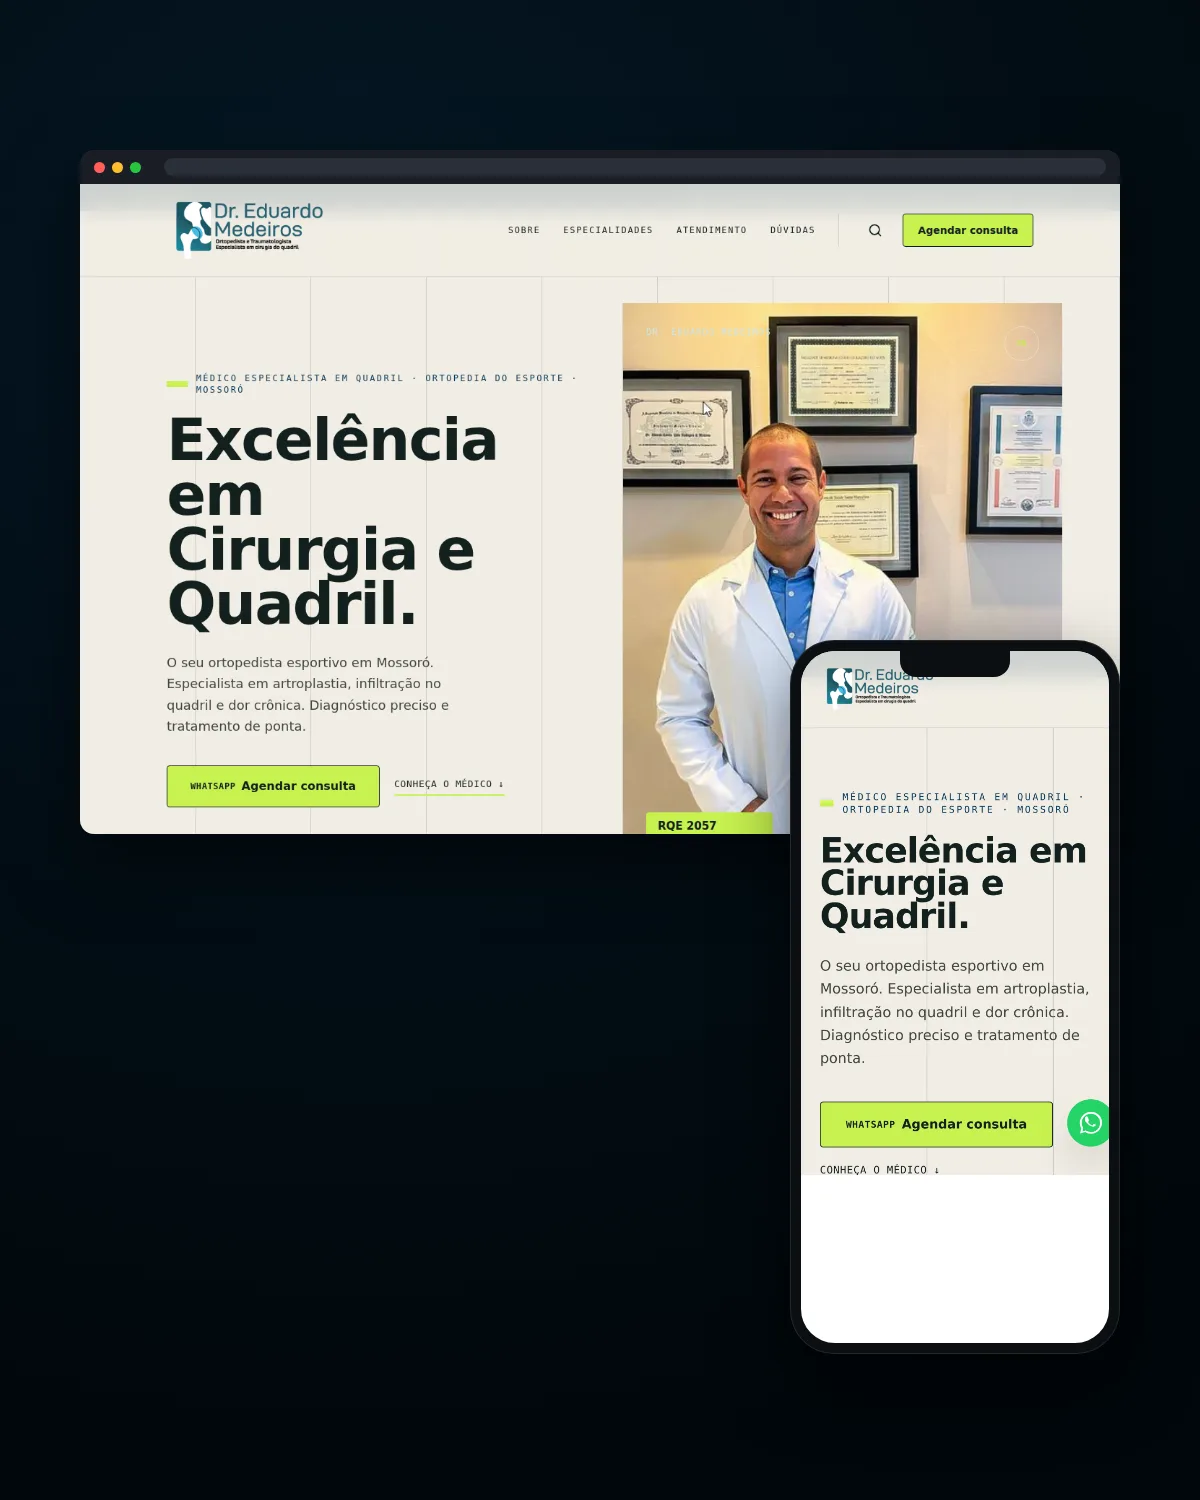
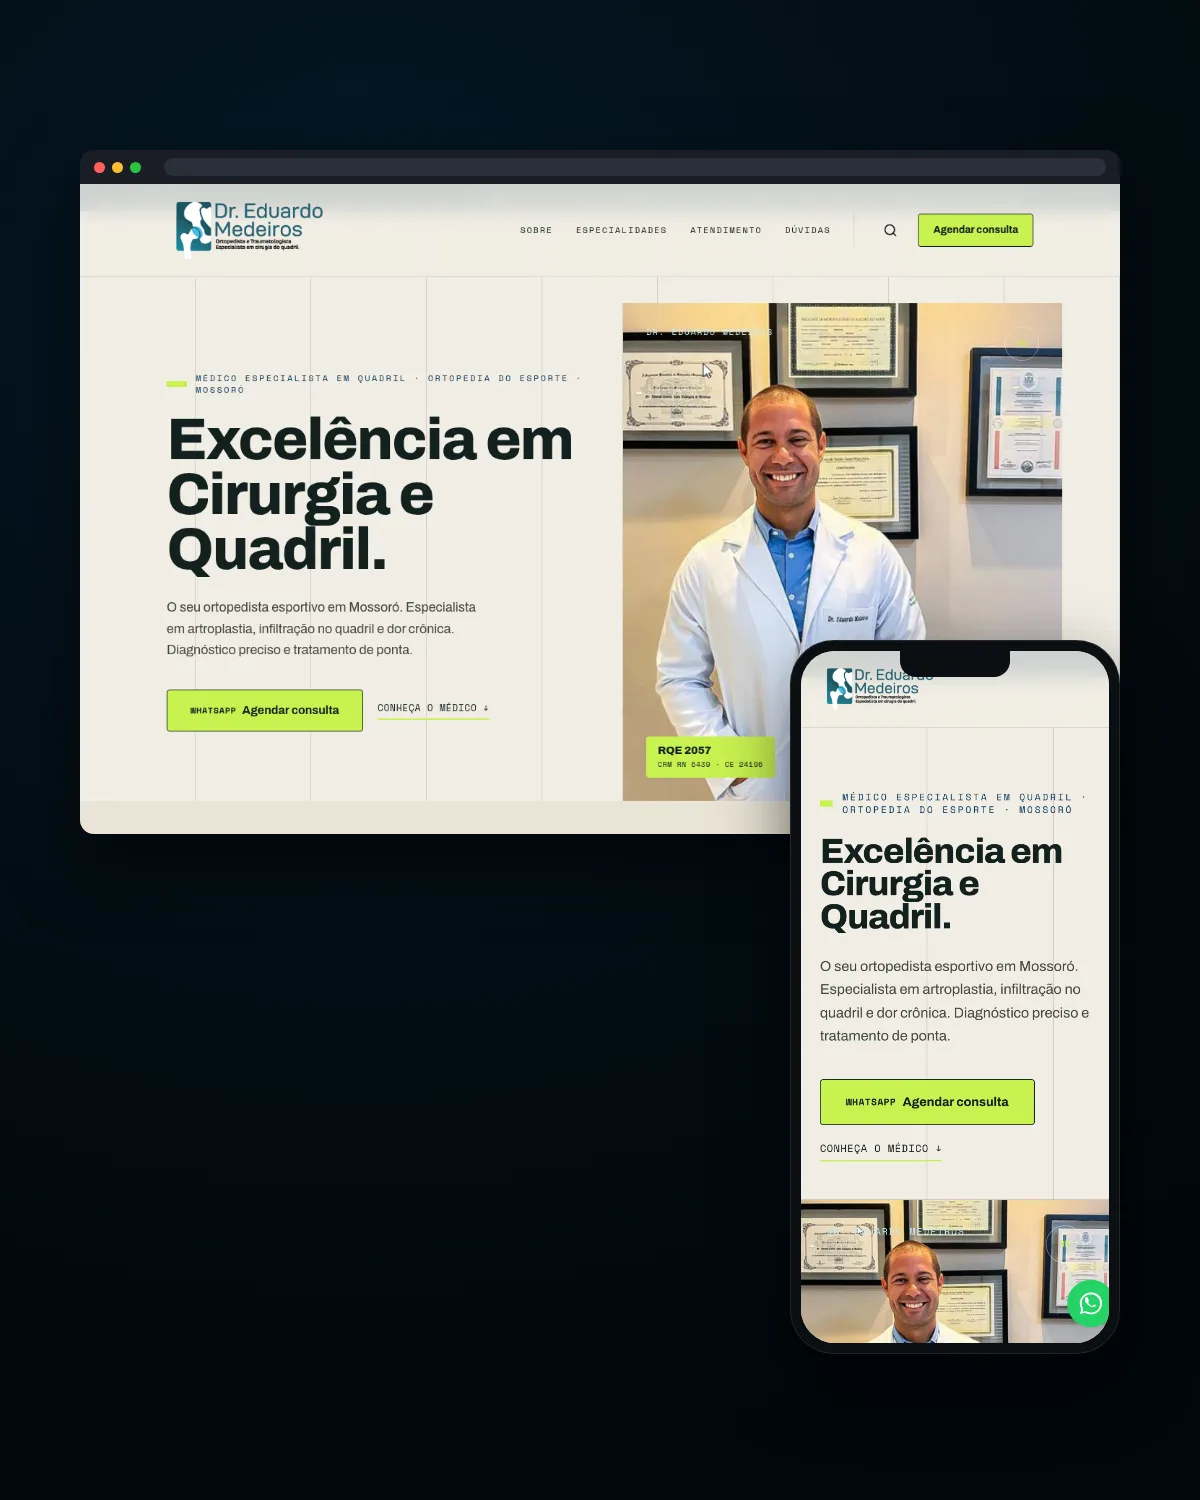
portfólio: as 15 peças de site da rodada 25b refeitas com o celular preenchendo a moldura
O compositor capturava o celular em 390×664 e a tela da moldura pede 390×876:
o terço de baixo do celular saía branco nas 15 peças do 0836b7e (corrigido no
compositor no #126, mas nenhuma peça tinha sido refeita). 6 delas estão na home
(palco do portfólio: ECOA, Dr. Luciano Morais, Dra. Larissa Fouad; agenda do
palco RizzoOS: Angiomedi, UroClínica Rio, Hospital de Olhos Sobradinho).

Cada peça saiu do build do SHA de produção ATUAL do projeto na Vercel (9 mudaram
desde a rodada 25b), sobrescrevendo o MESMO arquivo; o `origem` de cada linha em
content/portfolio.ts passa a citar o deploy e o commit novos. Medido: a faixa de
baixo da tela do celular tinha 98–99% de branco puro em todas; agora 0–16%,
exceto InMed (84%) e ECOA (80%), que têm fundo branco com conteúdo até embaixo
(conferido no olho).

InMed: capturada com o relógio em 02/11/2026 no build e no navegador, porque a
camada do Outubro Rosa (abertura, banner com preço, laço) liga e desliga pela
data e a peça fica meses no portfólio. Dra. Marina Gressler: o domínio, que na
rodada 18 era servido por host Google, hoje é servido pela Vercel com este build
(a nota antiga do `origem` ficou falsa e foi reescrita).

Claude-Session: https://claude.ai/code/session_0114tksiKRjdVCAqVb5r4n4E

Changed region(s): [[0.1233, 0.1227, 0.7708, 0.5827], [0.6475, 0.5213, 0.925, 0.92], [0.8017, 0.2147, 0.8942, 0.368]]

diff --git a/content/portfolio.ts b/content/portfolio.ts
@@ -842,7 +842,7 @@ export const PORTFOLIO: PecaPortfolio[] = [
     // dos que estão na Vercel". A arte assina "Clínica Medicina da Dor" (logo MD); a
     // Dra. Ana Cristina Medanha é a responsável (carteira-viva.ts).
     origem:
-      "Vercel: projeto md-medicina-da-dor (www.medicinador.com.br), último deploy de produção dpl_8BuC84T5EavNaBRprt6WH4nCwdJY; repo agenciarizzo/md-medicina_da_dor, commit f1b67b0 (buildado do clone, vite). Peça anterior: /Clientes/2024/NA/sprint_3_NA_site_finalizacao/insumos/site_landing_mockup.jpg",
+      "Vercel: projeto md-medicina-da-dor (www.medicinador.com.br), último deploy de produção dpl_8BuC84T5EavNaBRprt6WH4nCwdJY; repo agenciarizzo/md-medicina_da_dor, commit f1b67b0 (buildado do clone, vite). Peça anterior: /Clientes/2024/NA/sprint_3_NA_site_finalizacao/insumos/site_landing_mockup.jpg. Rodada 28 (2026-10-03): peça refeita do SHA de produção, com o celular preenchendo a moldura.",
   },
   {
     cliente: "Dra. Daniela Machado",
@@ -883,7 +883,7 @@ export const PORTFOLIO: PecaPortfolio[] = [
     cartas: ["site-seo", "clinicas-e-consultorios"],
     // Rodada 25 (2026-09-18): peça refeita do site VIVO na Vercel (o de 2024 era mockup do Drive).
     origem:
-      "Vercel: projeto examine-agora (www.examineagora.com.br), último deploy READY dpl_5nQrWG2BaCJdrGtHMTosCkXuBE3n; repo agenciarizzo/examine_agora (público), commit ae4ee09 (buildado do clone, next). Peça anterior: /Clientes/2024/EA/sprint_6_EA_site_landing/insumos/site_landing_mockup.jpg",
+      "Vercel: projeto examine-agora (www.examineagora.com.br), deploy de produção dpl_EWyvLpzJUkvpGq3zaGrnFqvqg5W9; repo agenciarizzo/examine_agora (público), commit cfe9b2f (buildado do clone, next). Rodada 28 (2026-10-03): peça refeita do SHA de produção, com o celular preenchendo a moldura. Peça anterior: /Clientes/2024/EA/sprint_6_EA_site_landing/insumos/site_landing_mockup.jpg",
   },
   {
     cliente: "Dr. Fernando Ferro",
@@ -1586,7 +1586,7 @@ export const PORTFOLIO: PecaPortfolio[] = [
     alt: "Janela de navegador e celular com a home do site do Dr. Eduardo Medeiros, ortopedista especialista em quadril em Mossoró",
     cartas: ["site-seo", "clinicas-e-consultorios"],
     origem:
-      "Vercel: projeto em-dr-eduardo-medeiros (www.dreduardoclrm.com.br), deploy de produção dpl_6XXdgAUkwnXNDyZsToKaB3YFDqGa = githubCommitSha f4a4ac4; repo agenciarizzo/EM---Dr.-Eduardo-Medeiros",
+      "Vercel: projeto em-dr-eduardo-medeiros (www.dreduardoclrm.com.br), deploy de produção dpl_6XXdgAUkwnXNDyZsToKaB3YFDqGa = githubCommitSha f4a4ac4; repo agenciarizzo/EM---Dr.-Eduardo-Medeiros. Rodada 28 (2026-10-03): peça refeita do SHA de produção, com o celular preenchendo a moldura.",
   },
   {
     cliente: "Dr. Francisco José de Carvalho",
@@ -1600,7 +1600,7 @@ export const PORTFOLIO: PecaPortfolio[] = [
     alt: "Janela de navegador e celular com a home do site do Dr. Francisco José de Carvalho, ortopedista e cirurgião de joelho em Vitória",
     cartas: ["site-seo", "clinicas-e-consultorios"],
     origem:
-      "Vercel: projeto fc-dr-francisco-carvalho (www.drfranciscocarvalho.com), deploy de produção dpl_GsDpb8NNZMCXxSnsG3c6LAW7aW6Z; repo agenciarizzo/FC---Dr.-Francisco-Carvalho, commit b3ff7fd",
+      "Vercel: projeto fc-dr-francisco-carvalho (www.drfranciscocarvalho.com), deploy de produção dpl_GsDpb8NNZMCXxSnsG3c6LAW7aW6Z; repo agenciarizzo/FC---Dr.-Francisco-Carvalho, commit b3ff7fd. Rodada 28 (2026-10-03): peça refeita do SHA de produção, com o celular preenchendo a moldura.",
   },
   {
     cliente: "Hospital de Olhos Sobradinho",
@@ -1614,7 +1614,7 @@ export const PORTFOLIO: PecaPortfolio[] = [
     alt: "Janela de navegador e celular com a home do site do Hospital de Olhos Sobradinho, oftalmologia no DF",
     cartas: ["site-seo", "clinicas-e-consultorios"],
     origem:
-      "Vercel: projeto hos-sobradinho (www.hosobradinho.com.br), deploy de produção dpl_J4iPqTdLHUytJsJ1Eo8Kxh77HKWP; repo agenciarizzo/HOS-Sobradinho, commit 3fd49e0. O <title> do site assina \"Hospital de Olhos Salute Sobradinho (HOS)\" — confirma o rebrand do §15.1 que o clientes.ts já declara no `oraculo`",
+      "Vercel: projeto hos-sobradinho (www.hosobradinho.com.br), deploy de produção dpl_J4iPqTdLHUytJsJ1Eo8Kxh77HKWP; repo agenciarizzo/HOS-Sobradinho, commit 3fd49e0. O <title> do site assina \"Hospital de Olhos Salute Sobradinho (HOS)\" — confirma o rebrand do §15.1 que o clientes.ts já declara no `oraculo`. Rodada 28 (2026-10-03): peça refeita do SHA de produção, com o celular preenchendo a moldura.",
   },
   {
     cliente: "Angiomedi – Centro Integrado de Angiologia",
@@ -1628,7 +1628,7 @@ export const PORTFOLIO: PecaPortfolio[] = [
     alt: "Janela de navegador e celular com a home do site da Angiomedi, angiologia e tratamento de varizes na Asa Sul em Brasília",
     cartas: ["site-seo", "clinicas-e-consultorios"],
     origem:
-      "Vercel: projeto angiomedi (www.angiomedi.com.br), deploy de produção dpl_DqocLVThiirMNdfFvyWZbBE6Y3eP; repo agenciarizzo/Angiomedi, commit f9e7b35",
+      "Vercel: projeto angiomedi (www.angiomedi.com.br), deploy de produção dpl_45QE4NSDuzYt7cgKECo46aQJjZHG; repo agenciarizzo/Angiomedi, commit 9ddc8d0. Rodada 28 (2026-10-03): peça refeita do SHA de produção, com o celular preenchendo a moldura.",
   },
   {
     cliente: "Dra. Elielma Almeida",
@@ -1642,7 +1642,7 @@ export const PORTFOLIO: PecaPortfolio[] = [
     alt: "Janela de navegador e celular com a home do site da Dra. Elielma Almeida, saúde da mulher e reprodução humana em Brasília",
     cartas: ["site-seo", "clinicas-e-consultorios"],
     origem:
-      "Vercel: projeto el-elielma-almeida-ferreira-de-morais, deploy de produção dpl_4pYdi2kevaqY19jNUjuL7zHY8fZi; repo agenciarizzo/EL---Elielma-Almeida-Ferreira-de-Morais, commit 2637a58 (hashes index-Kdgmv1vj.js e index-D39-iT_r.css batem com o HTML de produção)",
+      "Vercel: projeto el-elielma-almeida-ferreira-de-morais, deploy de produção dpl_1eDue52svVap1CTBVNccGxev6Ehe; repo agenciarizzo/EL---Elielma-Almeida-Ferreira-de-Morais, commit 884e387. Rodada 28 (2026-10-03): peça refeita do SHA de produção, com o celular preenchendo a moldura.",
   },
   {
     cliente: "InMed – Instituto de Medicina e Diagnóstico",
@@ -1656,7 +1656,7 @@ export const PORTFOLIO: PecaPortfolio[] = [
     alt: "Janela de navegador e celular com a home do site do inmed, clínica médica no Recanto das Emas em Brasília",
     cartas: ["site-seo", "clinicas-e-consultorios"],
     origem:
-      "Vercel: projeto inmed (www.inmedonline.com.br), deploy de produção dpl_3DSVxCxfGw4iu5z4FDppRhSTbQKK; repo agenciarizzo/inmed, commit 34aaa65",
+      "Vercel: projeto inmed (www.inmedonline.com.br), deploy de produção dpl_DQZDnP7Zshfny5HbAExYJ7GZoAeY; repo agenciarizzo/inmed, commit ab60a7b. Rodada 28 (2026-10-03): peça refeita do SHA de produção, com o celular preenchendo a moldura. Capturada com o relógio em 02/11/2026 (build e navegador): a camada do Outubro Rosa liga e desliga pela data, e a peça mostra a home de todo dia",
   },
   // Rodada 18 — fecha o instrumento Vercel (§16.8.17-10): os 3 projetos que faltavam
   // dos 15, no mesmo template medido da rodada 17 (clone no commit do deploy de
@@ -1674,7 +1674,7 @@ export const PORTFOLIO: PecaPortfolio[] = [
     alt: "Janela de navegador e celular com a home do site da Dra. Larissa Fouad, oftalmologista e especialista em retina em Belo Horizonte",
     cartas: ["site-seo", "clinicas-e-consultorios"],
     origem:
-      "Vercel: projeto li-dra-larissa (www.dralarissafouad.com.br), deploy de produção dpl_59W7hZGtT8PDinwh5oNUYCffFtKw = githubCommitSha 3e48a51; repo agenciarizzo/LI---Dra.-larissa (o HTML de produção referencia site.css?v=a4ea3a7f e site.js?v=dd0dd19d — os mesmos hashes do clone)",
+      "Vercel: projeto li-dra-larissa (www.dralarissafouad.com.br), deploy de produção dpl_DJZnEim8cc9ux9nnAqWC1xQzqbeh = githubCommitSha db8e0ce; repo agenciarizzo/LI---Dra.-larissa (o HTML de produção referencia site.css?v=f0127456 e site.js?v=28d1c7d3, os mesmos hashes do clone). Rodada 28 (2026-10-03): peça refeita do SHA de produção, com o celular preenchendo a moldura.",
   },
   {
     cliente: "Dra. Marina Gressler",
@@ -1688,7 +1688,7 @@ export const PORTFOLIO: PecaPortfolio[] = [
     alt: "Janela de navegador e celular com a home do site da Dra. Marina Gressler, urologista especialista em cirurgia robótica em Porto Alegre",
     cartas: ["site-seo", "clinicas-e-consultorios"],
     origem:
-      "Vercel: projeto mg, deploy de produção dpl_5dU9u1RvKX34yQJcnMtaCGniJfJP = githubCommitSha 7edef69; repo agenciarizzo/MG. O domínio dramarinagressleruro.com hoje é servido por host Google (build antigo, do AI Studio) — a peça sai do deploy Vercel, o trabalho mais novo da agência; aprovada pelo cliente ciente do achado (rodada 18)",
+      "Vercel: projeto mg, deploy de produção dpl_D3DZqUWKhUxJFfCv2fuB1Ji6DnJ1 = githubCommitSha cab83e7; repo agenciarizzo/MG. O domínio dramarinagressleruro.com, que na rodada 18 era servido por host Google, hoje é servido pela Vercel com este build (index-HSo0GAv7.js e index-k7EGVVyl.css batem, conferido em 2026-10-04). Rodada 28 (2026-10-03): peça refeita do SHA de produção, com o celular preenchendo a moldura.",
   },
   {
     cliente: "UroClínica Rio",
@@ -1702,7 +1702,7 @@ export const PORTFOLIO: PecaPortfolio[] = [
     alt: "Janela de navegador e celular com a home do site da UroClínica Rio, urologia e cirurgia robótica na Barra da Tijuca e em Bonsucesso",
     cartas: ["site-seo", "clinicas-e-consultorios"],
     origem:
-      "Vercel: projeto uroclinicario (uroclinicario.com.br), deploy de produção dpl_DavJutnkoWDg9WyefJcJXEQr4q8L = githubCommitSha 9ba077b; repo agenciarizzo/uroclinicario (público)",
+      "Vercel: projeto uroclinicario (uroclinicario.com.br), deploy de produção dpl_DavJutnkoWDg9WyefJcJXEQr4q8L = githubCommitSha 9ba077b; repo agenciarizzo/uroclinicario (público). Rodada 28 (2026-10-03): peça refeita do SHA de produção, com o celular preenchendo a moldura.",
   },
   {
     cliente: "Centro Digestivo de Brasília",
@@ -2291,7 +2291,7 @@ export const PORTFOLIO: PecaPortfolio[] = [
     alt: "Janela de navegador e celular com a home do site da ECOA Otorrinolaringologia, clínica de otorrino e doenças do ouvido na Asa Norte, Brasília",
     cartas: ["site-seo", "clinicas-e-consultorios"],
     origem:
-      "Vercel: projeto ecoa (www.ecoaotorrinolaringologia.com.br), último deploy de produção dpl_F9EmxLrZKbVotgGP1AnUUMSADhCA; repo agenciarizzo/ecoa, commit d4adab2 (buildado do clone, vite). Cliente no cadastro do RizzoOS como \"Ecoa Otorrino\" (carteira-viva.ts)",
+      "Vercel: projeto ecoa (www.ecoaotorrinolaringologia.com.br), deploy de produção dpl_EuKQrbXNCxZGBiZPuwRHcSSiDKZ4; repo agenciarizzo/ecoa, commit 21fadf9 (buildado do clone, vite). Rodada 28 (2026-10-03): peça refeita do SHA de produção, com o celular preenchendo a moldura. Cliente no cadastro do RizzoOS como \"Ecoa Otorrino\" (carteira-viva.ts)",
   },
   {
     cliente: "Casa de Saúde de Remanso",
@@ -2305,7 +2305,7 @@ export const PORTFOLIO: PecaPortfolio[] = [
     alt: "Janela de navegador e celular com a home do site da Casa de Saúde de Remanso, hospital com consultas, exames e laboratório em Remanso, Bahia",
     cartas: ["site-seo", "rede-hospitalar"],
     origem:
-      "Vercel: projeto sr (www.csremanso.med.br), último deploy READY dpl_26QfgCUpmDFHaMoNhsj5815L4fPk; repo agenciarizzo/SR, commit ed8ff46 (buildado do clone, vite)",
+      "Vercel: projeto sr (www.csremanso.med.br), deploy de produção dpl_J1HD8fWLkwSNB2t15AWByjFHuvEt; repo agenciarizzo/SR, commit ed8ff46 (buildado do clone, vite). Rodada 28 (2026-10-03): peça refeita do SHA de produção, com o celular preenchendo a moldura.",
   },
   {
     cliente: "Dr. Carlos Portocarrero",
@@ -2319,7 +2319,7 @@ export const PORTFOLIO: PecaPortfolio[] = [
     alt: "Janela de navegador e celular com a home do site do Dr. Carlos Portocarrero, reprodução assistida e endometriose em Brasília",
     cartas: ["site-seo", "clinicas-e-consultorios"],
     origem:
-      "Vercel: projeto cp-carlos-portocarrero (www.carlosportocarrero.com.br), último deploy de produção dpl_8DZkUsE87xxCb5QSCXZZuzYTmX11; repo agenciarizzo/CP---Carlos-Portocarrero., commit c3c4e30 (buildado do clone, vite)",
+      "Vercel: projeto cp-carlos-portocarrero (www.carlosportocarrero.com.br), deploy de produção dpl_DZqyNCQkg9XpQeNZxgdKxLUotboG; repo agenciarizzo/CP---Carlos-Portocarrero., commit fdecca3 (buildado do clone, vite). Rodada 28 (2026-10-03): peça refeita do SHA de produção, com o celular preenchendo a moldura.",
   },
   {
     cliente: "Dr. Luciano Morais",
@@ -2333,7 +2333,7 @@ export const PORTFOLIO: PecaPortfolio[] = [
     alt: "Janela de navegador e celular com a home do site do Dr. Luciano Morais, cirurgião vascular e endovascular em São Lourenço, Minas Gerais",
     cartas: ["site-seo", "clinicas-e-consultorios"],
     origem:
-      "Vercel: projeto lm-dr-luciano-morais (www.drlucianomorais.com.br), último deploy de produção dpl_9cWxy9UBtS6cqJG9J7C2WzQDZpcT; repo agenciarizzo/lm-dr-luciano-morais, commit 7fdda31 (buildado do clone, next). Praça pelo cadastro do RizzoOS (São Lourenço/MG) — carteira.ts registra São Paulo/SP",
+      "Vercel: projeto lm-dr-luciano-morais (www.drlucianomorais.com.br), deploy de produção dpl_Hy3NCHpfJKQG5vE79vbFKsjaHZhc; repo agenciarizzo/lm-dr-luciano-morais, commit 8fb6a1f (buildado do clone, next). Rodada 28 (2026-10-03): peça refeita do SHA de produção, com o celular preenchendo a moldura. Praça pelo cadastro do RizzoOS (São Lourenço/MG) — carteira.ts registra São Paulo/SP",
   },
   // ── Hospital Daher, 12 peças (2026-09-27) — rizzo-os →
   // docs/SITE_HANDOFF_HOSPITAIS_RIZZOOS_MAPA.md §4. Ex-cliente (2011→2023) entra pelo
